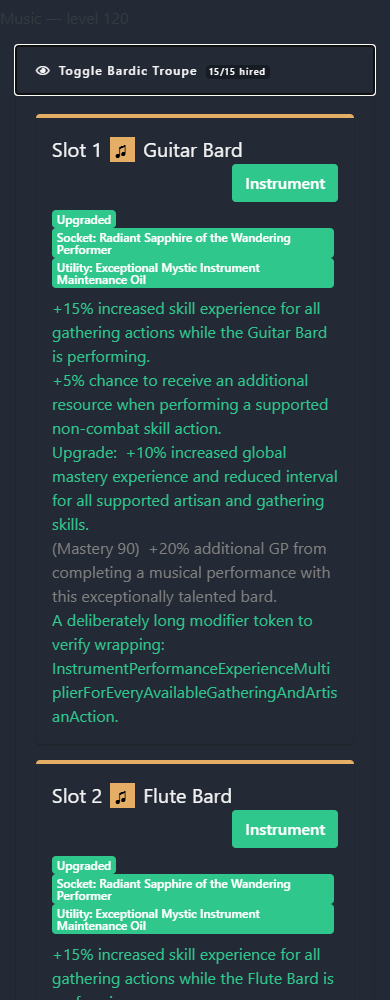
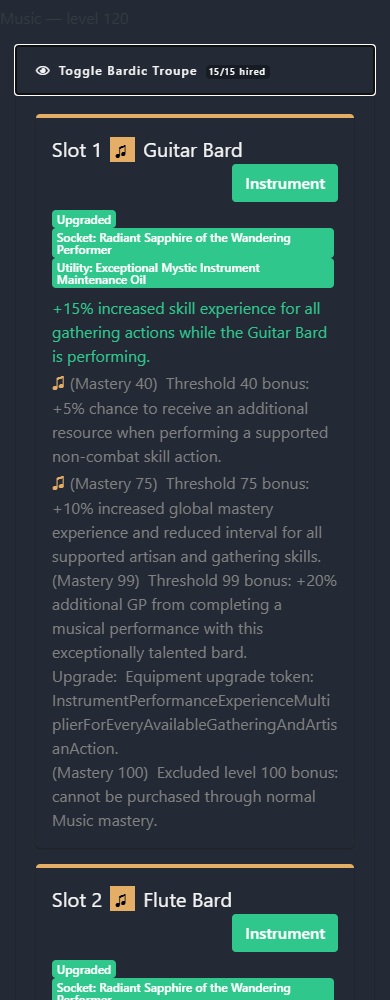
Add mastery unlock indicators
- Mark eligible bonus rows and native Mastery buttons with music notes
- Refresh cues as mastery levels, purchases, and saves change
- Update UI coverage, previews, and version 1.2.0 documentation

Changed region(s): [[0.0923, 0.372, 0.8923, 1.0]]

diff --git a/ui.css b/ui.css
@@ -36,6 +36,11 @@
   text-align: left;
 }
 
+.bardic-troupe-upgrade-indicator {
+  font-size: 1.15em;
+  font-weight: bold;
+}
+
 @container (min-width: 46rem) {
   #bardic-troupe-slots {
     grid-template-columns: repeat(2, minmax(0, 1fr));

diff --git a/MOD_IO.md b/MOD_IO.md
@@ -36,6 +36,10 @@ The roster starts collapsed whenever the interface loads, and the bar also suppo
 Cards appear in two columns when there is room and stack in one column in narrow panels.
 Hiring and bonus updates keep the roster open or closed as you left it.
 
+A gold **♫** marks a grey mastery bonus once its instrument mastery requirement is met, and appears on the instrument's **Mastery** button while any eligible bonus remains unpurchased.
+The cue also works for unhired instruments and updates as mastery levels, purchased bonuses, or loaded saves change.
+Normal GP and Essence of Music costs still apply, even when the cue is visible.
+
 Settings are saved separately for each character and immediately update the shop's prices, requirements, and labels.
 Previous troupe upgrades are still required in order.
 Changing settings keeps purchased slots and existing bards, and does not refund earlier purchases.
@@ -66,9 +70,14 @@ Use a 16:9 image of at least 512 × 288 pixels and no more than 8 MB.
 
 ## Version
 
-1.1.2
+1.2.0
 
 ## Changelog
+
+### 1.2.0
+
+- Mark eligible unpurchased mastery bonuses with a gold music-note cue in the troupe roster and on native instrument Mastery buttons.
+- Refresh cues after mastery level changes, bonus purchases, and save restoration while retaining Music's normal costs and controls.
 
 ### 1.1.2
 
@@ -95,7 +104,7 @@ Use a 16:9 image of at least 512 × 288 pixels and no more than 8 MB.
 
 ## Upload configuration
 
-- Upload **bardic-troupe-1.1.2.zip** with `manifest.json`, `setup.mjs`, `config.mjs`, `troupe.mjs`, `ui.mjs`, `ui.css`, and `icon.svg` at the archive root.
+- Upload **bardic-troupe-1.2.0.zip** with `manifest.json`, `setup.mjs`, `config.mjs`, `troupe.mjs`, `ui.mjs`, `ui.css`, and `icon.svg` at the archive root.
 - Exclude tests and documentation from the archive.
 - Set **[Myth] Music**, mod.io ID **3096259**, as a hard dependency in mod.io.
   The current Melvor manifest loader does not read dependency declarations from `manifest.json`.

diff --git a/README.md b/README.md
@@ -1,7 +1,7 @@
 # Bardic Troupe
 
 Bardic Troupe is a Melvor Idle addon for [Myth] Music that lets you hire a different bard for every available instrument and keep their bonuses active together.
-Version: **1.1.2**.
+Version: **1.2.0**.
 
 ## Requirements
 
@@ -29,6 +29,11 @@ The bar also supports Enter and Space when focused.
 Bard cards use two columns when the panel is at least 46rem wide, or 736px at the standard text size, and stack in one column when the panel is narrower.
 Hiring or refreshing bard bonuses keeps the roster in its current open or closed state.
 The **Instrument** buttons continue to open Music's normal enhancement controls.
+
+A gold **♫** at the start of a grey mastery bonus means the instrument's mastery level meets its requirement and the bonus is ready to unlock.
+The same mark appears on an instrument card's **Mastery** button while any eligible bonus remains unpurchased, including on instruments without a hired bard.
+The cue remains until those bonuses are unlocked and updates when mastery levels, purchased bonuses, or loaded saves change.
+Normal GP and Essence of Music costs still apply; the cue signals mastery-level eligibility even if you cannot afford the purchase yet.
 
 Music's **Band Practice** purchase is hidden and blocked while this addon is enabled.
 An already purchased Band Practice slot is preserved, and Music's master ancient relic still grants its additional slot.
@@ -60,7 +65,7 @@ There is intentionally no browser-local storage fallback.
 
 ## Package and development
 
-The release archive is **bardic-troupe-1.1.2.zip** and contains these seven files at its root:
+The release archive is **bardic-troupe-1.2.0.zip** and contains these seven files at its root:
 
 ```text
 manifest.json
